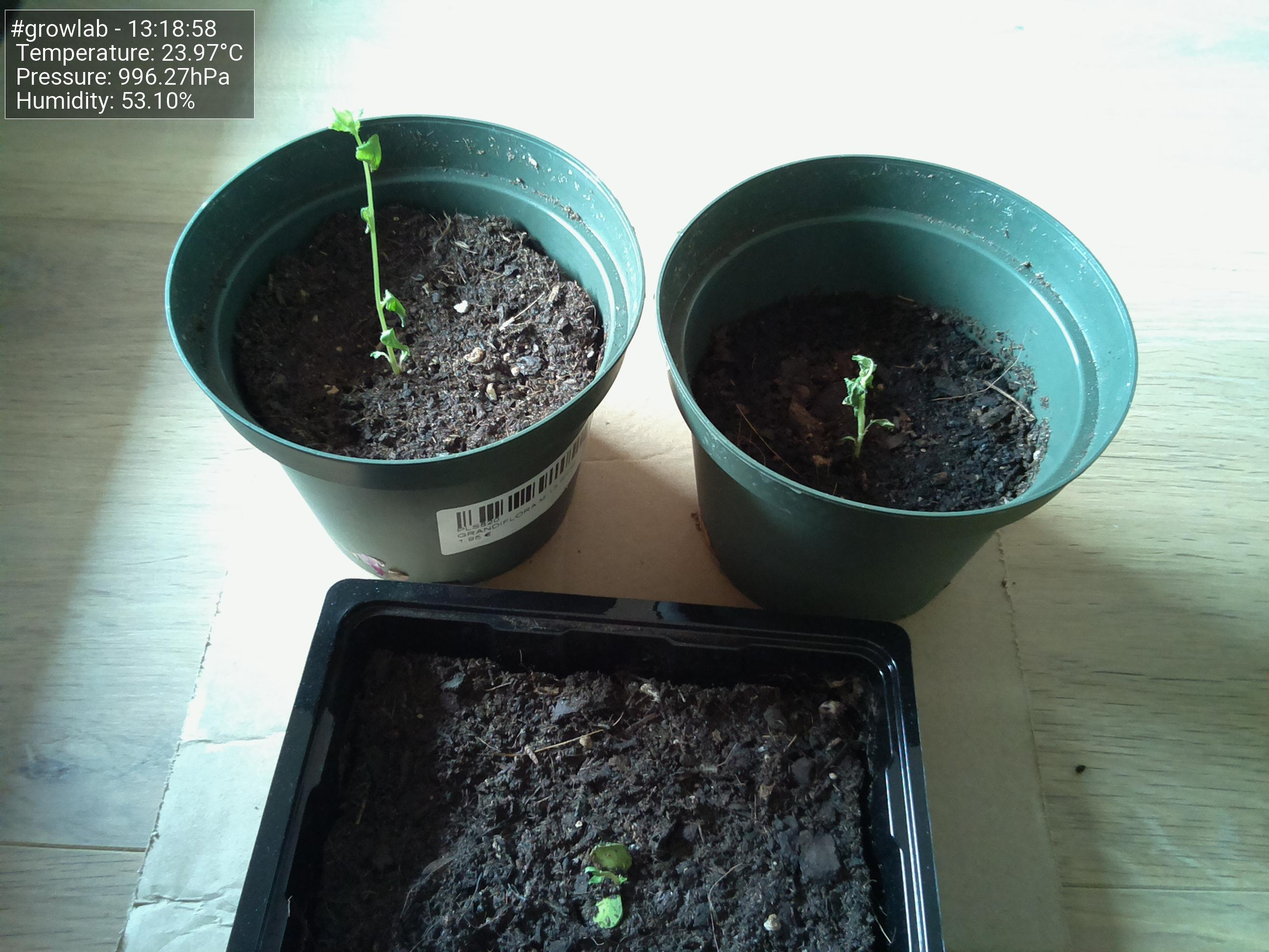
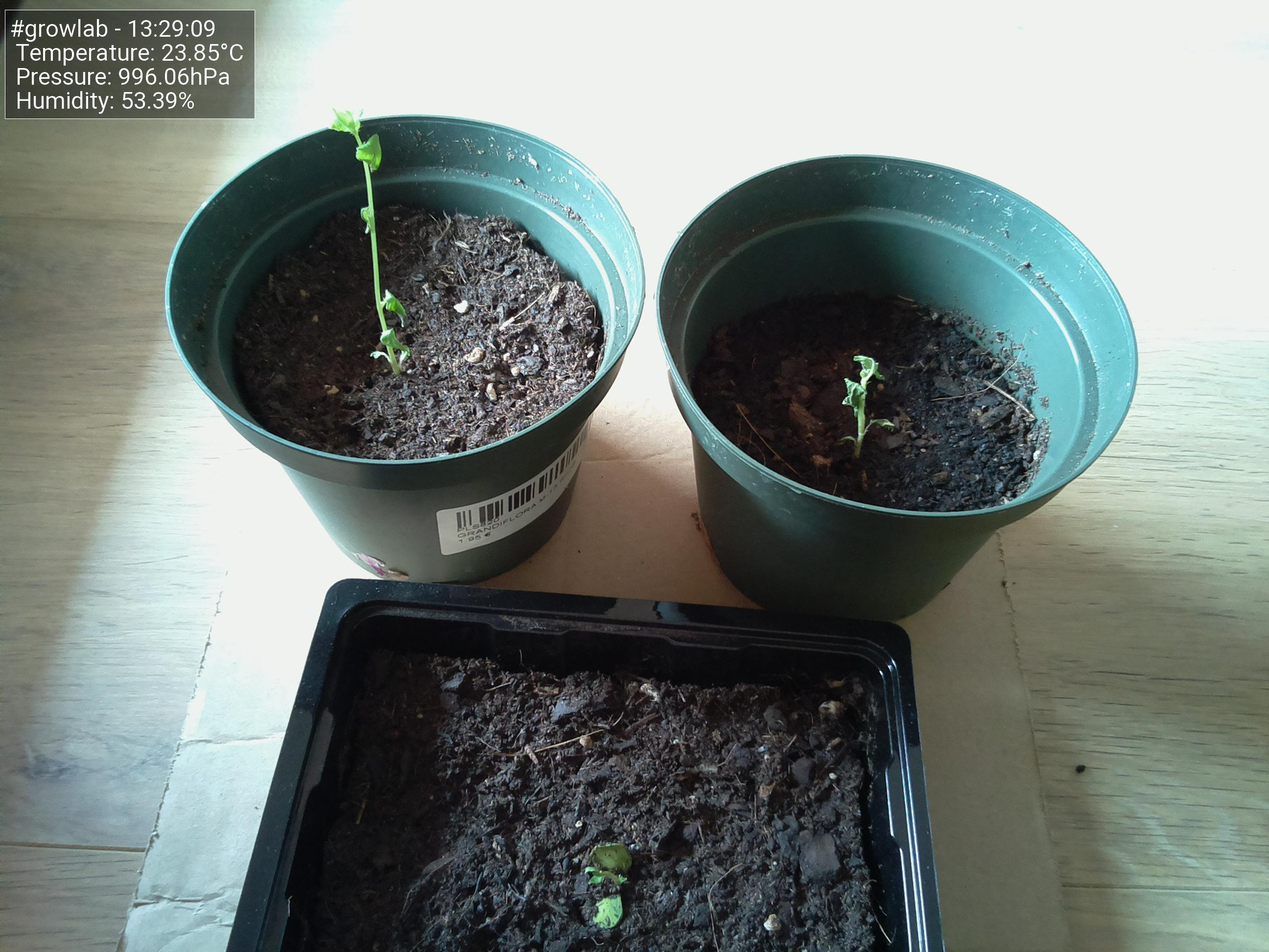
Update images at Thu 17 Jun 13:29:14 CEST 2021

diff --git a/docs/index.html b/docs/index.html
@@ -47,19 +47,19 @@
                         <tbody>
                             <tr>
                                 <td>Time</td>
-                                <td>13:18:58</td>
+                                <td>13:29:09</td>
                             </tr>
                             <tr>
                                 <td>Temperature</td>
-                                <td>23.97°C</td>
+                                <td>23.85°C</td>
                             </tr>
                             <tr>
                                 <td>Humidity</td>
-                                <td>53.10%</td>
+                                <td>53.39%</td>
                             </tr>
                             <tr>
                                 <td>Pressure</td>
-                                <td>996.27hPa</td>
+                                <td>996.06hPa</td>
                             </tr>
                         </tbody>
                     </table>
@@ -67,7 +67,7 @@
 
                 <h5>Latest image</h5>
                 <div style="width: 85%;">
-                            <img class="figure-img img-fluid rounded" src="./preview.jpg?uid=1623928742.468575">
+                            <img class="figure-img img-fluid rounded" src="./preview.jpg?uid=1623929353.9658418">
                 </div>
             </div>
         </div>
